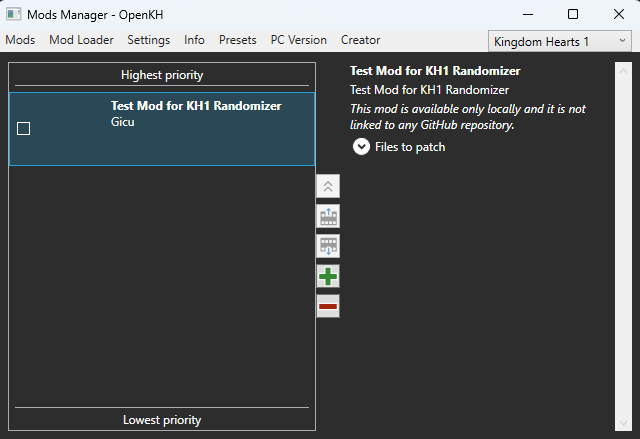
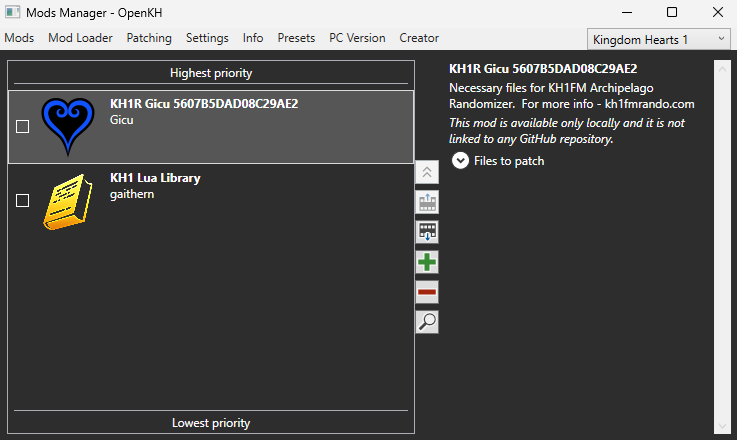
Added new instructions for mod set up and multiworld connection

diff --git a/dev/multiworld_guide.html b/dev/multiworld_guide.html
@@ -84,11 +84,15 @@
                 <p><img src="./images/create_new_room.png" border="1"></p>
                 <li>You should be redirected to a new room page.  This will contain a link to download the patch file for the KH1 players, all the information they need to connect, and all the files/info for other players</li>
                 <p><img src="./images/new_room.png" border="1"></p>
-                
-                <h2>Connecting to the multiworld server</h2>
+
+                <h2>Installing your slot's mod</h2>
                 <li>KH1 players should begin by downloading their patch file.  This is either provided by their host, or they may click the "Download Patch File..." link associated with their slot in their game.</li>
                 <li>Using that downloaded patch file, generate your mod for OpenKH using the same instructions as the <a href="generating_the_mod.html">"Generating the mod"</a> step in the <a href="setup_guide.html">Setup Guide</a></li>
                 <li>Install your mod using the same instructions as the <a href="install_the_mod.html">"Installing the mod"</a> step in the <a href="setup_guide.html">Setup Guide</a></li>
+
+                <h2>Connecting to the multiworld server (Option 1 File Client)</h2>
+                <li>In OpenKH, ensure you have "gaithern/KH1-FILE-CLIENT" installed</li>
+                <p><img src="./images/kh1_file_client.png" border="1"></p>
                 <li>Open your Archipelago Launcher, which can be found in your start menu or by navigating back to your Archipelago installation folder</li>
                 <p><img src="./images/archipelago_launcher.png" border="1"></p>
                 <li>In your Archipelago Launcher, search KH1.  Click "Open".</li>
@@ -99,7 +103,17 @@
                 <p><img src="./images/type_slot_name.png" border="1"></p>
                 <li>You should be greeted with the following messages.  You should now be able to open your modded KH1 game via OpenKH and play!</li>
                 <p><img src="./images/connected.png" border="1"></p>
-                
+
+                <h2>Connecting to the multiworld server (Option 2 DLL Client)</h2>
+                <li>In OpenKH, ensure you have "gaithern/KH1-DLL-CLIENT" installed</li>
+                <p><img src="./images/kh1_dll_client.png" border="1"></p>
+                <li>Once in game, press F4 to open the connection dialog window.</li>
+                <p><img src="./images/connection_dialog_window.png" border="1"></p>
+                <li>Type in the server/port associated with your hosted game and click "Connect"</li>
+                <p><img src="./images/connection_info_input.png" border="1"></p>
+                <li>If connection was successful, you should see a confirmation message in game.</li>
+                <p><img src="./images/confirmation_message.png" border="1"></p>
+
                 <h3>Having trouble getting set up?  Feel free to join the <a href="discord_links.html">KH1 AP Discord</a> and reach out for help.</h3>
             </p>
         </div>

diff --git a/dev/installing_the_mod.html b/dev/installing_the_mod.html
@@ -76,17 +76,23 @@
             <p><img src="./images/kh1_dropdown.png"></p>
             <li>Click the green plus icon to install a new mod.</li>
             <p><img src="./images/install_a_new_mod.png"></p>
+            <li>First, enter "gaithern/KH1-LUA-LIBRARY" in the field labelled "Install a new mod from GitHub" and click "Install".</li>
+            <p><img src="./images/install_kh1_lua_library.png"></p>
+            <li>You should see the following mod appear:</li>
+            <p><img src="./images/kh1_lua_library_installed.png"></p>
+            <li>Click the green plus icon again to install another mod.</li>
+            <p><img src="./images/install_another_mod.png"></p>
             <li>Choose "Select and install Mod Archive or Lua Script".</li>
             <p><img src="./images/select_or_install_a_new_mod_or_lua_script.png"></p>
             <li>Navigate to your mod zip created in the "Generating your Mod Zip" step and select it.</li>
             <p><img src="./images/mod_zip.png"></p>
             <li>Find your new mod in your mod list.</li>
             <p><img src="./images/mod_unchecked.png"></p>
-            <li>Click the box near the mod name to enable the mod.</li>
+            <li>Click the boxes near the mod names to enable each mod.</li>
             <p><img src="./images/mod_checked.png"></p>
             <li>When ready to play, go to "Mod Loader" at the top pane and choose "Build and Run".</li>
             <p><img src="./images/build_and_run.png"></p>
-            <li>KH1 should open with the newly installed mod.</li>
+            <li>KH1 should open with the newly installed mods.</li>
         </p>
     </div> </body>
 </html>
